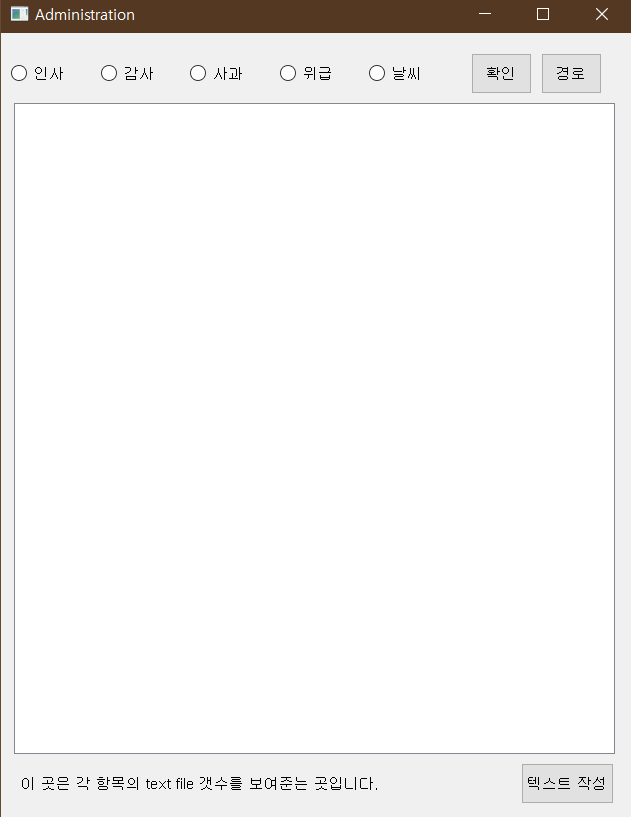
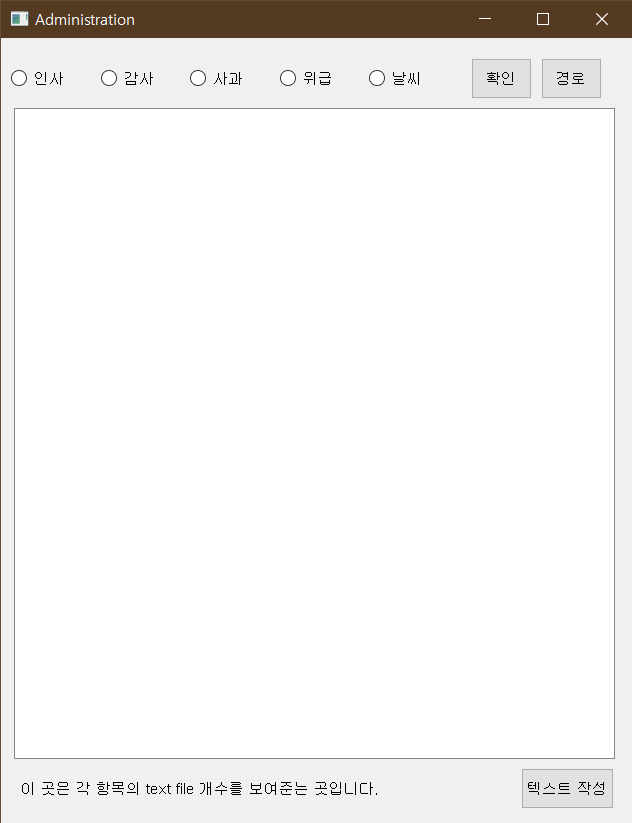
correct some typo and img is changed

Changed region(s): [[0.0, 0.0, 1.0, 0.918], [0.0602, 0.9486, 0.6022, 0.9792], [0.813, 0.918, 0.9937, 1.0]]

diff --git a/README.md b/README.md
@@ -68,7 +68,7 @@ main gui 실행
 ![img.png](imgs/text_administration.png)
 1. python administration.py를 실행한다
 2. 경로를 눌러서 텍스트 파일이 있는 폴더를 지정한다(conversationSet 폴더이다)
-3. 라이오 버튼을 눌러서 어떤 데이터를 불러오는지 지정한다.
+3. 라디오 버튼을 눌러서 어떤 데이터를 불러오는지 지정한다.
 폴더명의 기준으로 파일이 배치되어 있기에 다음을 따른다
     + emergency는 위급
     + greeting은 인사
@@ -83,7 +83,7 @@ main gui 실행
 2. 위의 text 관리 창이 뜨면 창 아래에 텍스트 작성 버튼을 누른다
 3. 그러면 지금의 text 작성 기능을 가진 창이 뜬다
 4. 저장 경로를 conversationSet안의 폴더 중 하나로 설정한다. 
-5. 라이오 버튼을 눌러서 어떤 데이터를 저장하는지 지정한다.
+5. 라디오 버튼을 눌러서 어떤 데이터를 저장하는지 지정한다.
 폴더명의 기준으로 파일이 배치되어 있기에 다음을 따른다
     + emergency는 위급
     + greeting은 인사
